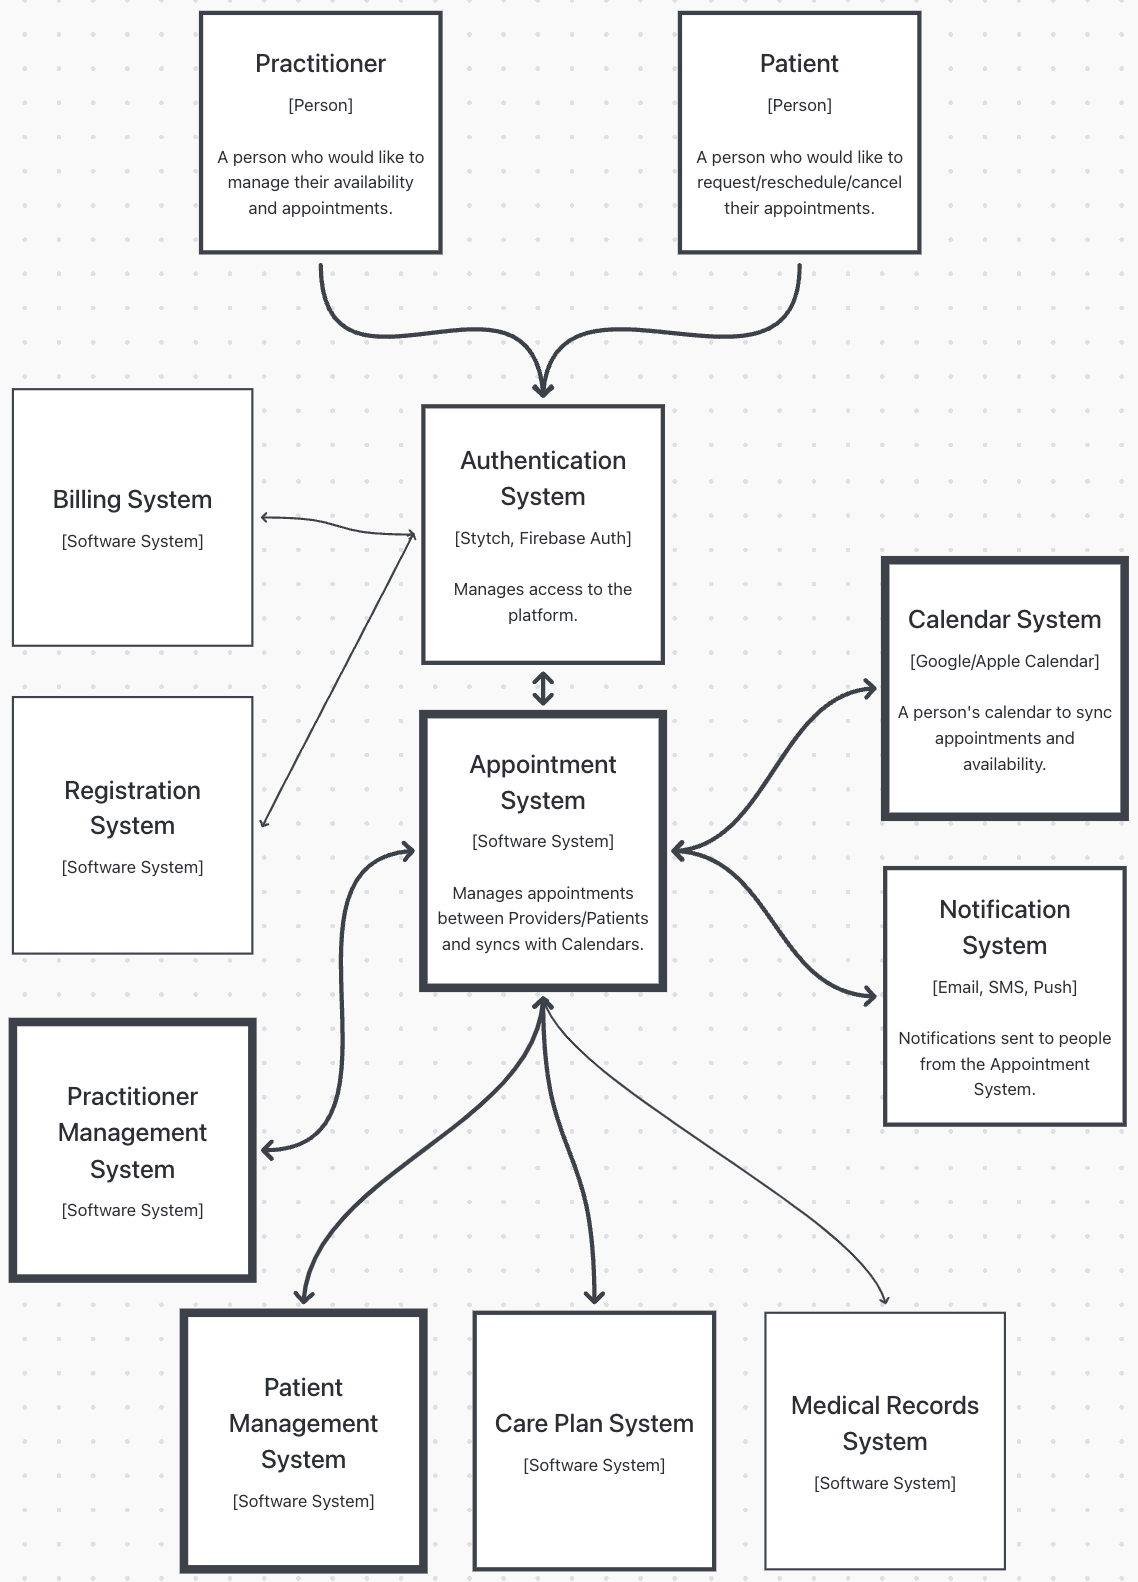
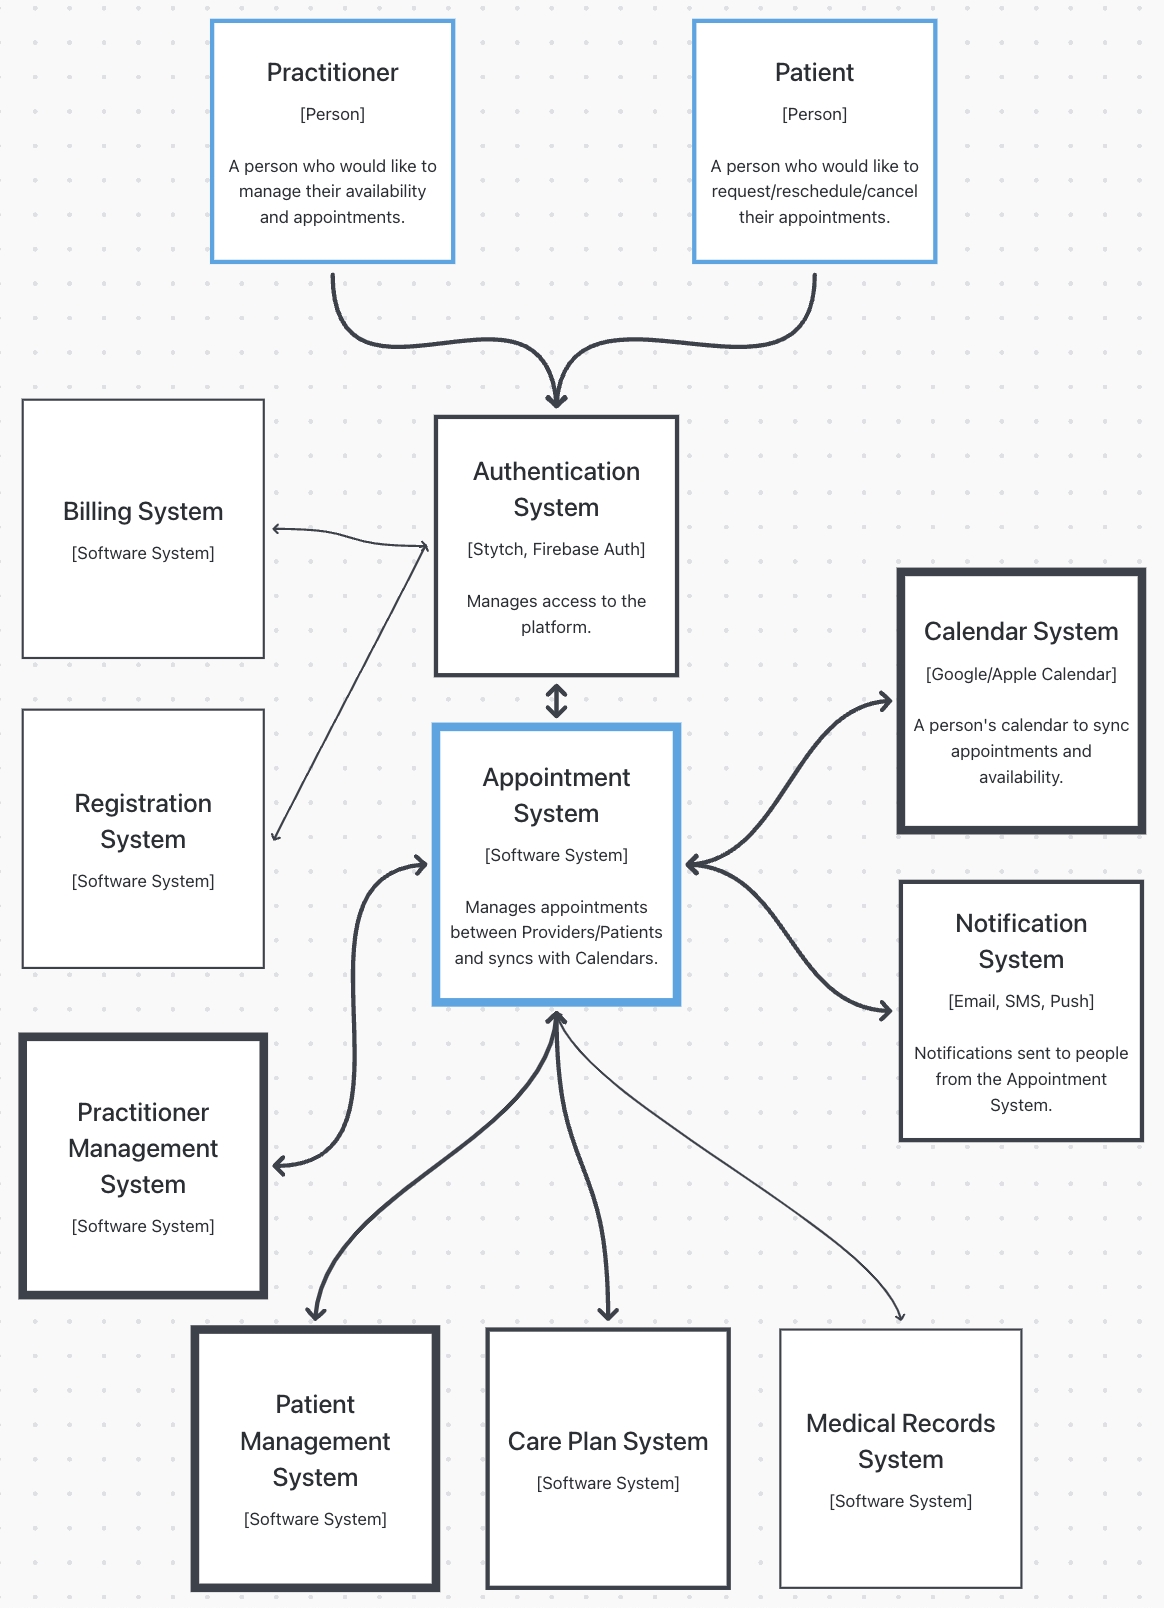
Updated System Design diagrams.

diff --git a/content/tutorials/how-to-build-an-ehr/introduction.md b/content/tutorials/how-to-build-an-ehr/introduction.md
@@ -4,7 +4,7 @@ draft: false
 hiddenInHomeList: true
 weight: 10
 ---
-Welcome to this comprehensive series on How to Build an Electronic Health Record (EHR) system. This series is designed to guide you through the entire process of developing a robust, scalable, and secure EHR system, leveraging modern methodologies and best practices.
+Welcome to this series on How to Build an Electronic Health Record (EHR) system. This tutorial is designed to guide you through the entire process of developing a robust, scalable, and secure EHR system, leveraging modern methodologies and best practices.
 
 > **Objective**: Gain an understanding of the key concepts and assumptions in this tutorial.
 
